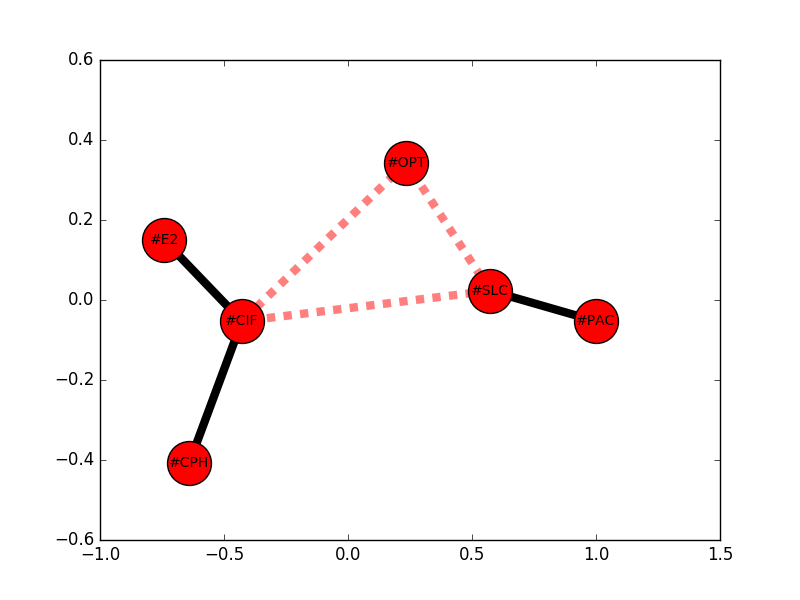
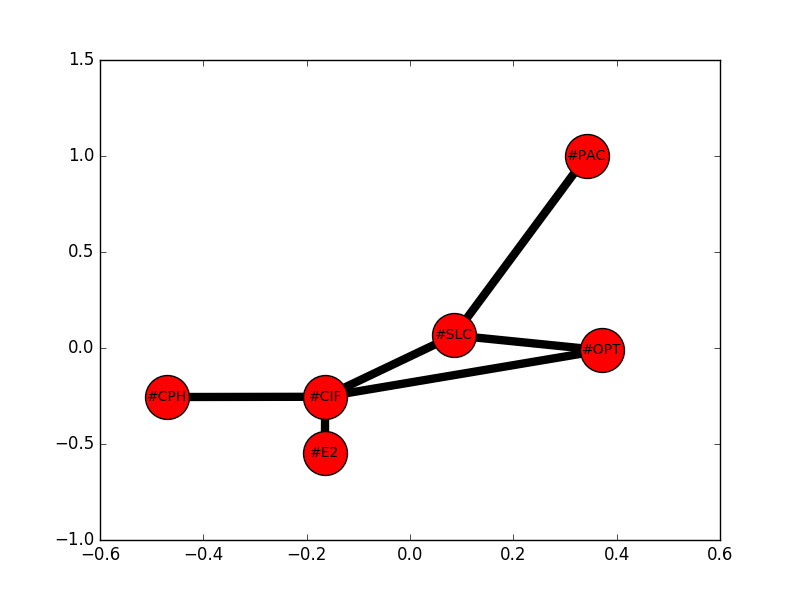
Cleaned up formatting and added function to calculate weight of node relative to x and y of coordinates. Also changed to node storage to array.

diff --git a/coordinates/Coordinate_Tracking.html b/coordinates/Coordinate_Tracking.html
@@ -63,123 +63,122 @@
         context.lineWidth ="5";
         context.strokeStyle="red";
         context.moveTo(122,578);//120_stair
-context.lineTo(215,578);//119a_hallway
-context.lineTo(215,628);//105
-context.lineTo(405,628);//105_128
-context.lineTo(436,628);//128
-context.lineTo(436,652);//128_104
-context.stroke();
+        context.lineTo(215,578);//119a_hallway
+        context.lineTo(215,628);//105
+        context.lineTo(405,628);//105_128
+        context.lineTo(436,628);//128
+        context.lineTo(436,652);//128_104
+        context.stroke();
 
+        context.moveTo(436,628);//128
+        context.lineTo(469,628);//128_103
+        context.lineTo(632,628);//103
+        context.lineTo(632,602);//103door_119hallway
+        context.lineTo(632,644);//103_1
+        context.lineTo(725,644);//103A
 
-context.moveTo(436,628);//128
-context.lineTo(469,628);//128_103
-context.lineTo(632,628);//103
-context.lineTo(632,602);//103door_119hallway
-context.lineTo(632,644);//103_1
-context.lineTo(725,644);//103A
+        context.moveTo(632,644);//103_1
+        context.lineTo(632,554);//119d_hallway
+        context.lineTo(735,554);//199e_hallway
+        context.lineTo(735,595);//126Washroom
 
-context.moveTo(632,644);//103_1
-context.lineTo(632,554);//119d_hallway
-context.lineTo(735,554);//199e_hallway
-context.lineTo(735,595);//126Washroom
+        context.moveTo(632,554);//119d_hallway
+        context.lineTo(505,554);//119c_hallway
 
-context.moveTo(632,554);//119d_hallway
-context.lineTo(505,554);//119c_hallway
+        context.moveTo(735,554);//119e_hallway
+        context.lineTo(838,554);//101_119hallway
+        context.lineTo(838,458);//101
+        context.lineTo(838,313);//101_122hallway
+        context.lineTo(742,313);//122e_hallway
 
-context.moveTo(735,554);//119e_hallway
-context.lineTo(838,554);//101_119hallway
-context.lineTo(838,458);//101
-context.lineTo(838,313);//101_122hallway
-context.lineTo(742,313);//122e_hallway
+        context.moveTo(735,554);//119e_hallway
+        context.lineTo(735,535);//102door_119hallway
+        context.lineTo(735,512);//102
+        context.lineTo(735,490);//102_102A
+        context.lineTo(735,448);//102A
 
-context.moveTo(735,554);//119e_hallway
-context.lineTo(735,535);//102door_119hallway
-context.lineTo(735,512);//102
-context.lineTo(735,490);//102_102A
-context.lineTo(735,448);//102A
+        context.moveTo(735,448);//102A
+        context.lineTo(735,377);//113
+        context.lineTo(735,399);//113_102A
 
-context.moveTo(735,448);//102A
-context.lineTo(735,377);//113
-context.lineTo(735,399);//113_102A
+        context.moveTo(735,377);//113
+        context.lineTo(735,313);//122d2_hallway
 
-context.moveTo(735,377);//113
-context.lineTo(735,313);//122d2_hallway
+        context.moveTo(742,294);//125Washroom
+        context.lineTo(742,313);//122e_hallway
+        context.lineTo(735,313);//122d2_hallway
+        context.lineTo(730,313);//122d1_hallway
+        context.lineTo(700,313);//122d_hallway
+        context.lineTo(700,367);//118
 
-context.moveTo(742,294);//125Washroom
-context.lineTo(742,313);//122e_hallway
-context.lineTo(735,313);//122d2_hallway
-context.lineTo(730,313);//122d1_hallway
-context.lineTo(700,313);//122d_hallway
-context.lineTo(700,367);//118
+        context.moveTo(700,313);//122d_hallway
+        context.lineTo(632,313);//122c_hallway
+        context.lineTo(505,313);//122b3_hallway
 
-context.moveTo(700,313);//122d_hallway
-context.lineTo(632,313);//122c_hallway
-context.lineTo(505,313);//122b3_hallway
+        context.moveTo(456,628);//128_1
+        context.lineTo(456,593);//128door_119hallway
+        context.lineTo(456,554);//119b_hallway
+        context.lineTo(456,529);//119b1_hallway
+        context.lineTo(427,529);//108door_119hallway
 
-context.moveTo(456,628);//128_1
-context.lineTo(456,593);//128door_119hallway
-context.lineTo(456,554);//119b_hallway
-context.lineTo(456,529);//119b1_hallway
-context.lineTo(427,529);//108door_119hallway
+        context.moveTo(456,554);//119B_HALLWAY
+        context.lineTo(505,554);//119C_HALLWAY
+        context.lineTo(505,452);//123
+        context.lineTo(505,313);//122b3_hallway
 
-context.moveTo(456,554);//119B_HALLWAY
-context.lineTo(505,554);//119C_HALLWAY
-context.lineTo(505,452);//123
-context.lineTo(505,313);//122b3_hallway
+        context.moveTo(215,578);//119a_hallway
+        context.lineTo(215,554);//119a1_hallway
+        context.lineTo(215,506);//107
+        context.lineTo(215,479);//107_108A
+        context.lineTo(215,432);//108A
+        context.lineTo(228,432);//108A_108
 
-context.moveTo(215,578);//119a_hallway
-context.lineTo(215,554);//119a1_hallway
-context.lineTo(215,506);//107
-context.lineTo(215,479);//107_108A
-context.lineTo(215,432);//108A
-context.lineTo(228,432);//108A_108
+        context.moveTo(215,554);//119a1_hallway
+        context.lineTo(456,554);//119b_hallway
 
-context.moveTo(215,554);//119a1_hallway
-context.lineTo(456,554);//119b_hallway
+        context.moveTo(215,432);//108A
+        context.lineTo(215,384);//108B
 
-context.moveTo(215,432);//108A
-context.lineTo(215,384);//108B
+        context.moveTo(215,554);//199a1_hallway
+        context.lineTo(173,554);//106
 
-context.moveTo(215,554);//199a1_hallway
-context.lineTo(173,554);//106
+        context.moveTo(116,313);//121_stair
+        context.lineTo(215,313);//122a1_hallway
+        context.lineTo(215,338);//122a_hallway
+        context.lineTo(103,338);//109
 
-context.moveTo(116,313);//121_stair
-context.lineTo(215,313);//122a1_hallway
-context.lineTo(215,338);//122a_hallway
-context.lineTo(103,338);//109
+        context.moveTo(215,384);//108B
+        context.lineTo(215,313);//122a1_hallway
+        context.lineTo(215,263);//110
+        context.lineTo(404,263);//127_110
+        context.lineTo(434,263);//127
 
-context.moveTo(215,384);//108B
-context.lineTo(215,313);//122a1_hallway
-context.lineTo(215,263);//110
-context.lineTo(404,263);//127_110
-context.lineTo(434,263);//127
+        context.moveTo(215,313);//122a1_hallway
+        context.lineTo(434,313);//122b_hallway
+        context.lineTo(434,263);//127
+        context.lineTo(434,236);//127_111
 
-context.moveTo(215,313);//122a1_hallway
-context.lineTo(434,313);//122b_hallway
-context.lineTo(434,263);//127
-context.lineTo(434,236);//127_111
+        context.moveTo(434,313);//122b_hallway
+        context.lineTo(462,313);//122b2_hallway
+        context.lineTo(505,313);//122b3_hallway
 
-context.moveTo(434,313);//122b_hallway
-context.lineTo(462,313);//122b2_hallway
-context.lineTo(505,313);//122b3_hallway
+        context.moveTo(462,313);//122b2_hallway
+        context.lineTo(462,363);//122b2a_hallway
+        context.lineTo(427,363);//108_122hallway
 
-context.moveTo(462,313);//122b2_hallway
-context.lineTo(462,363);//122b2a_hallway
-context.lineTo(427,363);//108_122hallway
+        context.moveTo(434,263);//127
+        context.lineTo(468,263);//127_112
+        context.lineTo(632,263);//112
+        context.lineTo(632,238);//112_2
+        context.lineTo(726,238);//112A
 
-context.moveTo(434,263);//127
-context.lineTo(468,263);//127_112
-context.lineTo(632,263);//112
-context.lineTo(632,238);//112_2
-context.lineTo(726,238);//112A
+        context.moveTo(632,263);//112
+        context.lineTo(632,313);//122c_hallway
 
-context.moveTo(632,263);//112
-context.lineTo(632,313);//122c_hallway
-
-context.moveTo(434,236);//127_111
-context.lineTo(434,186);//111
-context.lineTo(434,69);//111A
-context.stroke();
+        context.moveTo(434,236);//127_111
+        context.lineTo(434,186);//111
+        context.lineTo(434,69);//111A
+        context.stroke();
       </script>
     </div>
 

diff --git a/ref.py b/ref.py
@@ -9,6 +9,7 @@ except:
     raise
 
 import networkx as nx
+import numpy as numpy
 
 # Define class for all navigation nodes.
 # Ensure that there is both x- and y- coordinates, a flag for visibility
@@ -16,14 +17,16 @@ import networkx as nx
 # Properties are details of the node.
 class navNode(object):
     def __init__(self, x, y, nodeType, visible, properties):
-        self.x = x
-        self.y = y
+        self.coordinates = numpy.array((x,y))
         self.nodeType = nodeType
         self.visible = visible
         self.properties = properties
 
     def __repr__(self):
-        return '#%s' % (self.properties,)
+        return '#%s' % (self.properties)
+
+def distWeight(A, B):
+    return numpy.linalg.norm(A.coordinates - B.coordinates)
 
 if __name__ == "__main__":
     SLC = navNode(0, 0, "room", True, "SLC")
@@ -33,26 +36,19 @@ if __name__ == "__main__":
     CPH = navNode(10, -5, "room", True, "CPH")
     E2 = navNode(12, -5, "room", True, "E2")
 
-    # print a.x
-    # print a.y
-    # print a.properties
-    # if (a.visible):
-    #     print a.visible
-    #     print a.nodeType
-
     G=nx.Graph()
 
-    G.add_edge(SLC, PAC, weight=0.6)
-    G.add_edge(SLC, CIF, weight=0.1)
-    G.add_edge(CIF, OPT, weight=0.1)
-    G.add_edge(CIF, CPH, weight=0.7)
-    G.add_edge(CIF, E2, weight=0.9)
-    G.add_edge(SLC, OPT, weight=0.3)
+    G.add_edge(SLC, PAC, weight=(distWeight(SLC, PAC)))
+    G.add_edge(SLC, CIF, weight=(distWeight(SLC, CIF)))
+    G.add_edge(CIF, OPT, weight=(distWeight(CIF, OPT)))
+    G.add_edge(CIF, CPH, weight=(distWeight(CIF, CPH)))
+    G.add_edge(CIF, E2, weight=(distWeight(CIF, E2)))
+    G.add_edge(SLC, OPT, weight=(distWeight(SLC, OPT)))
 
     print G.edges()
     print (nx.astar_path(G, SLC, OPT))
     print (nx.astar_path_length(G, SLC, OPT))
-    #
+
     elarge=[(u,v) for (u,v,d) in G.edges(data=True) if d['weight'] >0.5]
     esmall=[(u,v) for (u,v,d) in G.edges(data=True) if d['weight'] <=0.5]
     #
